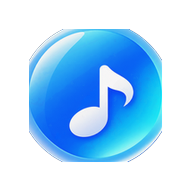
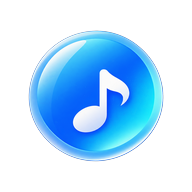
deploy: 同步壳 PWA 源码（2026-11-18 13:38）

Changed region(s): [[0.125, 0.125, 0.875, 0.8438]]

diff --git a/sw.js b/sw.js
@@ -1,6 +1,6 @@
 // 最小 Service Worker：仅为满足 Chrome PWA 安装条件（需注册 + fetch handler）。
 // 壳页自身离线兜底；Tabliss iframe 的请求照常走网络，不缓存。
-const SHELL = 'tabliss-shell-v4';   // v4：图标留白加大到画布70%（与原始图标观感一致）
+const SHELL = 'tabliss-shell-v5';   // v5：图标从原始 music.png 干净重生成（旧文件圆被「激进裁剪+溢出回贴」切过）
 const SHELL_FILES = ['index.html', 'pwa.json', 'icon-192.png', 'icon-512.png'];
 
 self.addEventListener('install', (e) => {
